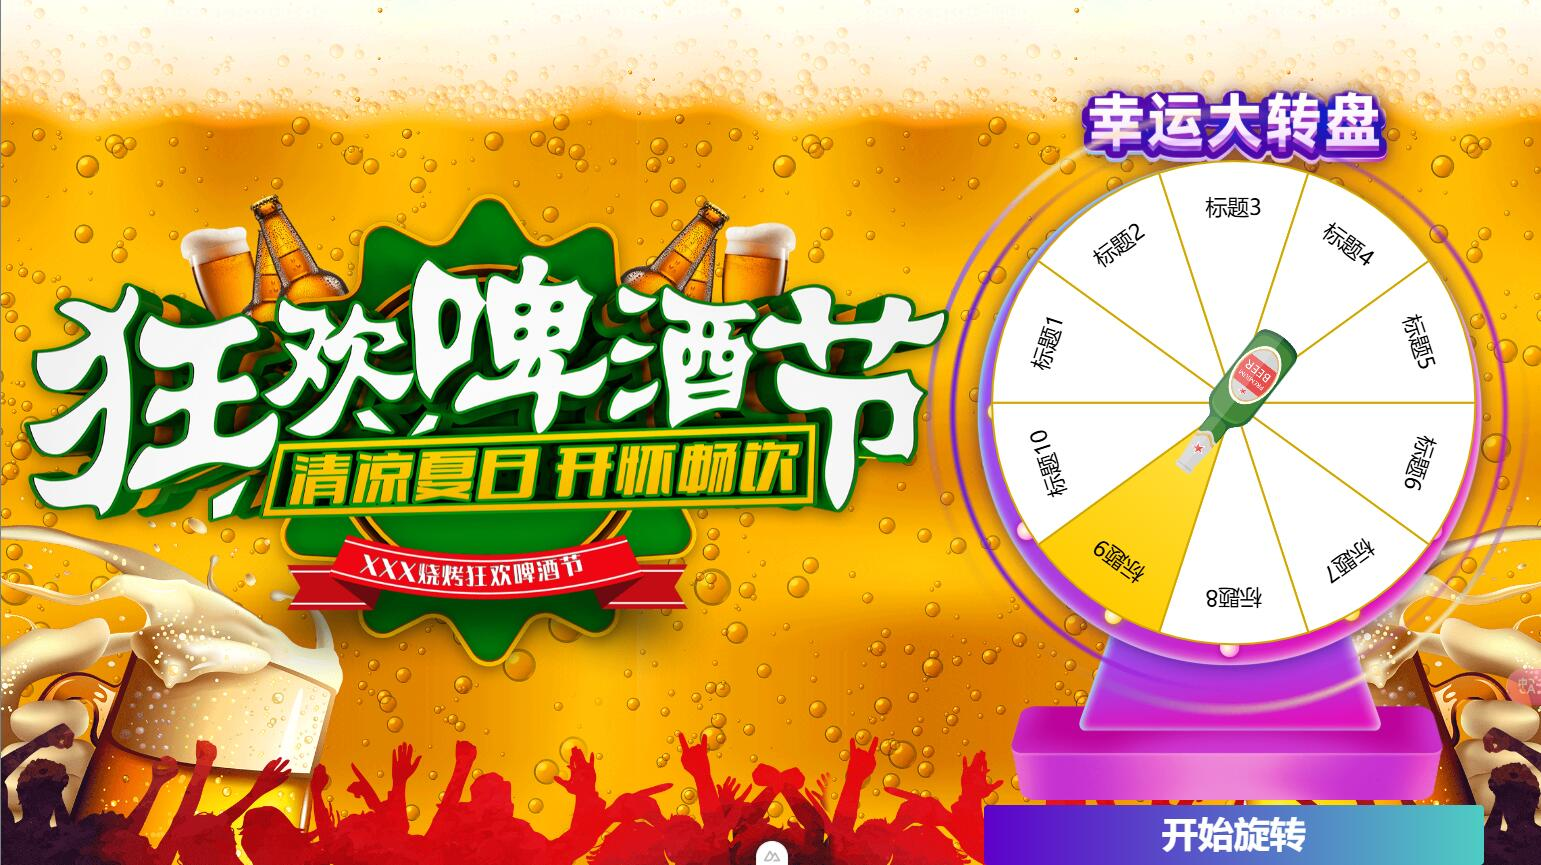
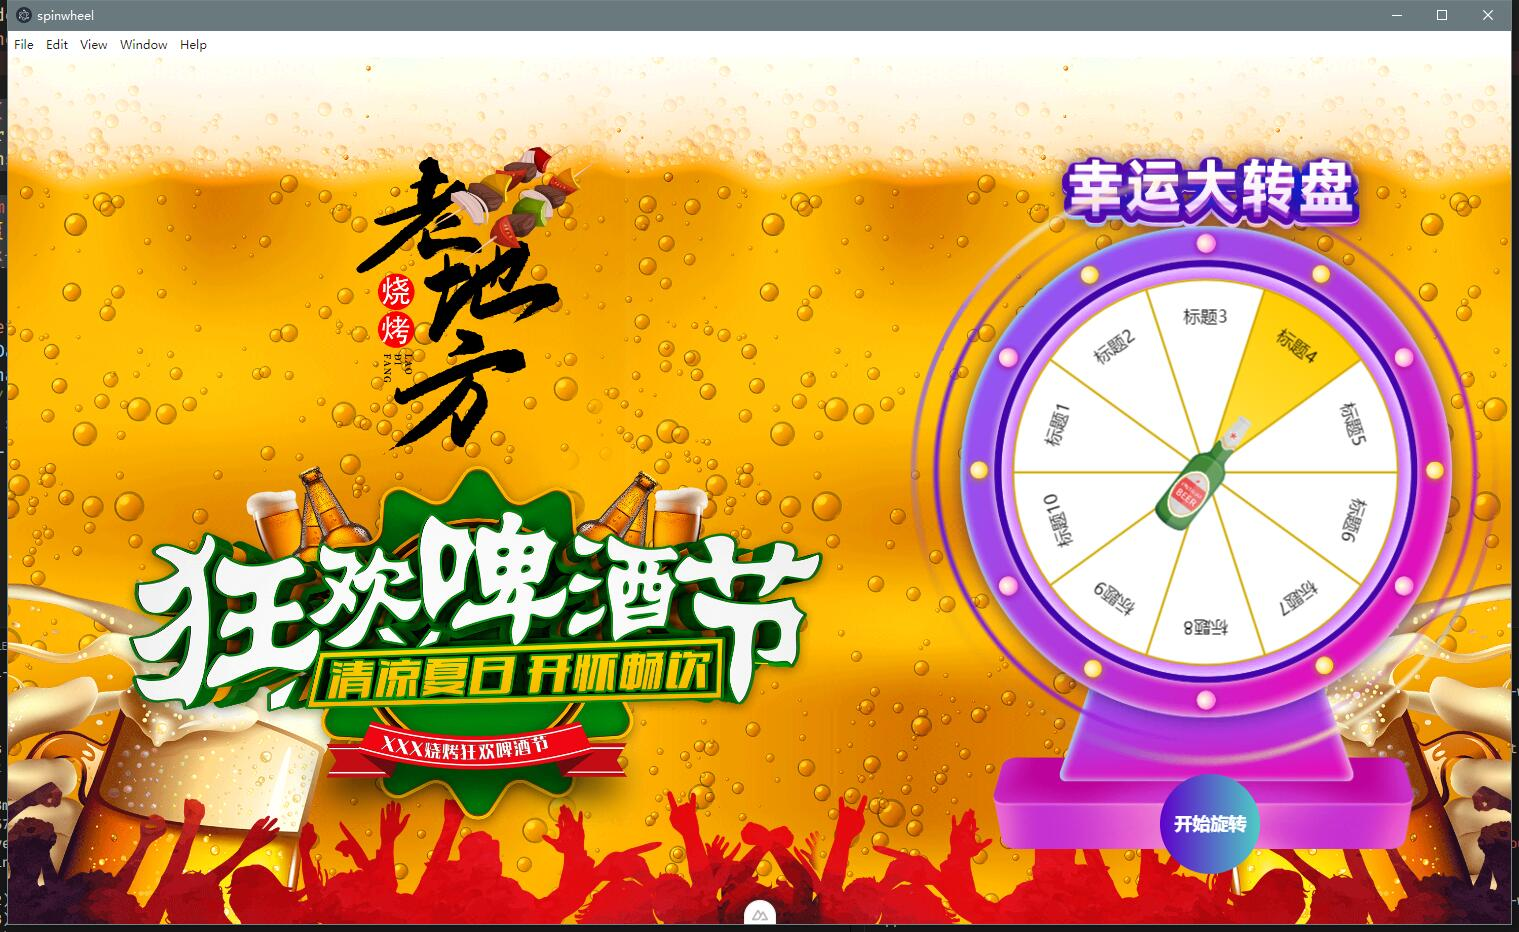
feat: electron桌面端

diff --git a/app.vue b/app.vue
@@ -1,16 +1,25 @@
 <template>
   <div class="wheel-container" @mousemove="handleMouseMove">
     <div
-      class="w-3/5 parallax-img"
+      class="w-3/5 parallax-img flex flex-col justify-center items-center"
       :style="{
         transform: `translate(${offsetX}px, ${offsetY}px)`,
       }"
     >
-      <img
-        src="/images/pjtest.png"
-        alt="Project Test"
-        class="w-240 h-full object-cover md:w-480px xl:w-720px 2xl:w-1200px"
-      />
+      <div>
+        <img
+          src="/images/logo.png"
+          alt="Project Test"
+          class="w-50 h-full object-cover md:w-150px xl:w-250px 2xl:w-350px"
+        />
+      </div>
+      <div>
+        <img
+          src="/images/pjtest.png"
+          alt="Project Test"
+          class="w-240 h-full object-cover md:w-480px xl:w-720px 2xl:w-1200px"
+        />
+      </div>
     </div>
 
     <!-- 右侧转盘 -->
@@ -26,6 +35,16 @@ const offsetX = ref(0)
 const offsetY = ref(0)
 
 const handleMouseMove = (event: MouseEvent) => {
+  const { clientX, clientY } = event
+  const { innerWidth, innerHeight } = window // Get window dimensions here
+
+  const x = (clientX / innerWidth) * 2 - 1 // -1 到 1
+  const y = (clientY / innerHeight) * 2 - 1
+
+  offsetX.value = x * 40 // 控制前景偏移
+  offsetY.value = y * 40
+}
+const handleMouseMove2 = (event: MouseEvent) => {
   const { clientX, clientY } = event
   const { innerWidth, innerHeight } = window // Get window dimensions here
 
